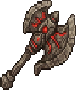
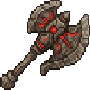
Update: Pajche War Axe

diff --git a/Content/Items/Swords/Pajche/PajcheWarAxeHoldout.cs b/Content/Items/Swords/Pajche/PajcheWarAxeHoldout.cs
@@ -46,7 +46,7 @@ namespace OSTARsSWORDS.Content.Items.Swords.Pajche
         public float ArmRotationOffsetBack = 0f;
         public virtual int FrameCount => 1;
         public int Frame = 0;
-        public Vector2 SpriteOrigin => new(-3, 124);
+        public Vector2 SpriteOrigin => new(-3, 90);
         public float FinalRotation => Projectile.rotation + RotationOffset;
         public SpriteEffects spriteEffects = SpriteEffects.None;
         public bool CanHit_Field = true;
@@ -117,6 +117,7 @@ namespace OSTARsSWORDS.Content.Items.Swords.Pajche
             Projectile.width = (int)Math.Max(HitboxSize.X, 1);
             Projectile.height = (int)Math.Max(HitboxSize.Y, 1);
             Projectile.friendly = true;
+            Projectile.scale = 1.5f;
             Projectile.tileCollide = false;
             Projectile.penetrate = -1;
             Projectile.noEnchantmentVisuals = true;
@@ -136,7 +137,7 @@ namespace OSTARsSWORDS.Content.Items.Swords.Pajche
         {
             CanHit_Field = false;
             Projectile.knockBack = 0;
-            Projectile.scale = 1;
+            Projectile.scale = 1.5f;
             Projectile.ai[1] = -1;
 
             mousePos = Main.MouseWorld;
@@ -214,10 +215,6 @@ namespace OSTARsSWORDS.Content.Items.Swords.Pajche
 
                     if (chargeTimer < chargeTimerMax && !chargedSwing)
                         chargeTimer++;
-                    if (Main.zenithWorld)
-                    {
-                        GFBCharge++;
-                    }
 
                     Vector2 particleVel = (Owner.Center - particlePos).SafeNormalize(Vector2.UnitX) * -15;
                     particlePos += Main.rand.NextVector2Circular(20, 20);
@@ -251,20 +248,6 @@ namespace OSTARsSWORDS.Content.Items.Swords.Pajche
                     chargedSwing = true;
                     useAnim = storedUseAnim / 3;
                     chargeTimer++;
-
-                    if (Main.zenithWorld)
-                    {
-                        if (chargeTimerMax - (GFBMulti * GFBMulti * 2) <= 12 && !GFBFlashWarning)
-                        {
-                            SoundStyle w = new("OSTARsSWORDS/Sounds/AGAGA");
-                            SoundEngine.PlaySound(w with { Volume = 0.5f, Pitch = 1f }, Projectile.Center);
-                            Main.NewText("NIGGA!", Color.Orange);
-                            GFBFlashWarning = true;
-                        }
-                        GFBMulti += 0.5f;
-                        Projectile.scale += 0.03f;
-                        GFBCharge = 0;
-                    }
 
                     // Vanilla dust replacement for LineParticle burst
                     for (int i = 0; i < 20; i++)
@@ -321,7 +304,7 @@ namespace OSTARsSWORDS.Content.Items.Swords.Pajche
                     {
                         GFBMulti = 1;
                         GFBCharge = 0;
-                        Projectile.scale = 1;
+                        Projectile.scale = 1.5f;
                         Animation = 0;
                         doSwing = false;
                         chargeTimer = 0;
@@ -623,13 +606,11 @@ namespace OSTARsSWORDS.Content.Items.Swords.Pajche
             modifiers.HitDirectionOverride = Owner.direction;
 
             if (chargedSwing)
+            {
                 modifiers.SetCrit();
-
-            float critDamage = Math.Min(Owner.GetTotalCritChance(Projectile.DamageType) * 0.01f, 1f);
-            float minMult = 0.25f;
-            int hitsToMinMult = 10;
-            float damageMult = Utils.Remap(pierceReduction, 0, hitsToMinMult, 1, minMult, true);
-            modifiers.SourceDamage *= (chargedSwing ? (2.9f * GFBMulti + critDamage) : 1) * damageMult;
+                modifiers.FlatBonusDamage += target.lifeMax * 0.08f;
+            }
+            else modifiers.FlatBonusDamage += target.lifeMax * 0.04f;
         }
 
         #region CanHitNPC / CanDamage / ModifyDamageHitbox (inlined from base class)
@@ -658,7 +639,7 @@ namespace OSTARsSWORDS.Content.Items.Swords.Pajche
             if ((useAnim > 0 || DrawUnconditionally) && (Owner.ItemAnimationActive || IsRightClickHeld))
             {
                 Asset<Texture2D> tex = ModContent.Request<Texture2D>(Texture);
-                Asset<Texture2D> glowTex = ModContent.Request<Texture2D>("OSTARsSWORDS/ExtraTextures/UI/CrystalTextSparkle");
+                //Asset<Texture2D> glowTex = ModContent.Request<Texture2D>("OSTARsSWORDS/ExtraTextures/UI/CrystalTextSparkle");
                 Asset<Texture2D> swoosh = ModContent.Request<Texture2D>("OSTARsSWORDS/ExtraTextures/UI/CrystalTextGlow");
 
                 float r = FlipAsSword ? MathHelper.ToRadians(90) : 0f;
@@ -677,18 +658,6 @@ namespace OSTARsSWORDS.Content.Items.Swords.Pajche
                     Main.EntitySpriteDraw(swoosh.Value, Projectile.Center - Main.screenPosition + new Vector2(0, Owner.gfxOffY), null, Color.Lerp(Color.DarkRed, Color.OrangeRed, 0.25f) with { A = 0 } * fadeIn * 0.9f, (FinalRotation + MathHelper.ToRadians(45)) + MathHelper.ToRadians(swingCount % 2 == 0 ? -80 : 80) * -Owner.direction, swoosh.Size() * 0.5f, Projectile.scale * 2.35f / 4, swingCount % 2 == 0 ? SpriteEffects.FlipHorizontally : SpriteEffects.None);
 
                 Main.EntitySpriteDraw(tex.Value, generalDrawPos, tex.Frame(1, FrameCount, 0, Frame), lightColor, Projectile.rotation + RotationOffset + r, FlipAsSword ? new Vector2(tex.Width() - SpriteOrigin.X, SpriteOrigin.Y) : SpriteOrigin, Projectile.scale, sEffects);
-
-                if (chargeTimer > 0)
-                {
-                    for (int i = 0; i < 5; i++)
-                    {
-                        Color auraColor = (Color.Lerp(Color.DarkRed, Color.Red, Utils.GetLerpValue(0, 5, i)) * 0.4f * fadeIn) with { A = 0 };
-                        Vector2 rotationalDrawOffset = (MathHelper.TwoPi * i / 7f + Main.GlobalTimeWrappedHourly * 17f).ToRotationVector2();
-                        rotationalDrawOffset *= MathHelper.Lerp(3f, 5.25f, (float)Math.Cos(Main.GlobalTimeWrappedHourly * 13f) * 0.5f);
-                        Main.EntitySpriteDraw(glowTex.Value, Projectile.Center - Main.screenPosition + rotationalDrawOffset + new Vector2(0, Owner.gfxOffY), glowTex.Value.Frame(1, FrameCount, 0, Frame), auraColor, Projectile.rotation + RotationOffset + r, FlipAsSword ? new Vector2(tex.Width() - SpriteOrigin.X, SpriteOrigin.Y) : SpriteOrigin, Projectile.scale, sEffects);
-                    }
-                }
-                Main.EntitySpriteDraw(glowTex.Value, generalDrawPos, glowTex.Frame(1, FrameCount, 0, Frame), chargeTimer > 0 ? Color.Lerp(Color.White, Color.Gold, fadeIn) : Color.White, Projectile.rotation + RotationOffset + r, FlipAsSword ? new Vector2(glowTex.Width() - SpriteOrigin.X, SpriteOrigin.Y) : SpriteOrigin, Projectile.scale, sEffects);
             }
             return false;
         }

diff --git a/Content/Items/Swords/Pajche/PajcheWarAxe.cs b/Content/Items/Swords/Pajche/PajcheWarAxe.cs
@@ -21,10 +21,11 @@ namespace OSTARsSWORDS.Content.Items.Swords.Pajche
         public override void SetStaticDefaults() => ItemID.Sets.ItemsThatAllowRepeatedRightClick[Type] = true;
         public override void SetDefaults()
         {
-            Item.width = 124;
-            Item.height = 124;
-            Item.damage = 760;
+            Item.width = 90;
+            Item.height = 90;
+            Item.damage = 90;
             Item.DamageType = DamageClass.Melee;
+            Item.scale = 1.5f;
             Item.useAnimation = Item.useTime = 71;
             Item.useTurn = true;
             Item.knockBack = 13f;
@@ -54,7 +55,6 @@ namespace OSTARsSWORDS.Content.Items.Swords.Pajche
         public override bool MeleePrefix() => true;
         public override bool Shoot(Player player, EntitySource_ItemUse_WithAmmo source, Vector2 position, Vector2 velocity, int type, int damage, float knockback)
         {
-            // Vanilla right-click detection (AltFunctionUse returns true, so altFunctionUse == 2 means right-click)
             if (player.altFunctionUse == 2)
             {
                 Projectile.NewProjectile(source, player.MountedCenter, Vector2.Zero, type, damage, knockback, player.whoAmI, 0, 0, 5);
@@ -65,20 +65,10 @@ namespace OSTARsSWORDS.Content.Items.Swords.Pajche
         }
         public override void PostDrawInWorld(SpriteBatch spriteBatch, Color lightColor, Color alphaColor, float rotation, float scale, int whoAmI)
         {
-            // Inlined: DrawItemGlowmaskSingleFrame extension method from CalamityMod.Utilities.DrawingUtils
             Texture2D glowmaskTexture = ModContent.Request<Texture2D>("OSTARsSWORDS/ExtraTextures/UI/CrystalTextSparkle").Value;
             Vector2 origin = new Vector2(glowmaskTexture.Width / 2f, glowmaskTexture.Height / 2f);
             Color color = Color.White;
             spriteBatch.Draw(glowmaskTexture, Item.Center - Main.screenPosition, null, color, rotation, origin, 1f, SpriteEffects.None, 0f);
-        }
-        public override void ModifyTooltips(List<TooltipLine> list)
-        {
-            // Inlined: FindAndReplace extension method from CalamityMod.Utilities.ItemUtils
-            string replacedKey = "[GFB]";
-            string newKey = Lang.SupportGlyphs(this.GetLocalizedValue(Main.zenithWorld ? "TooltipGFB" : "TooltipNormal"));
-            TooltipLine line = list.FirstOrDefault(x => x.Mod == "Terraria" && x.Text.Contains(replacedKey));
-            if (line != null)
-                line.Text = line.Text.Replace(replacedKey, newKey);
         }
     }
 }
